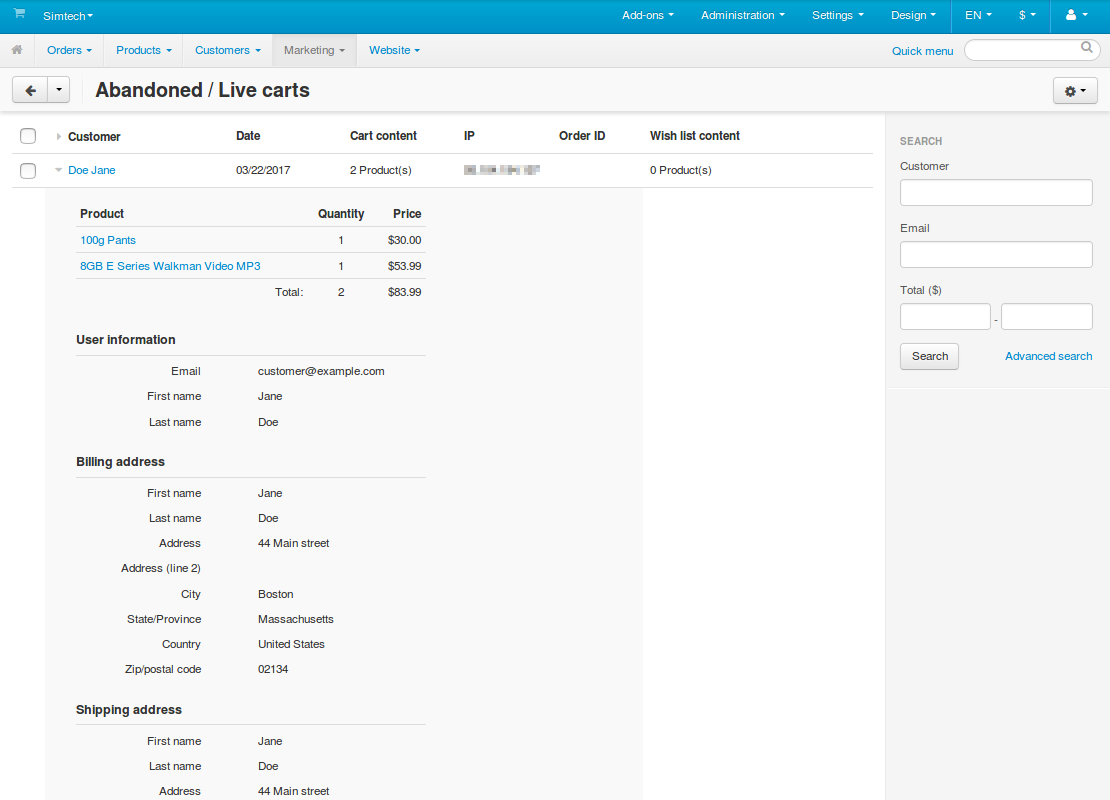
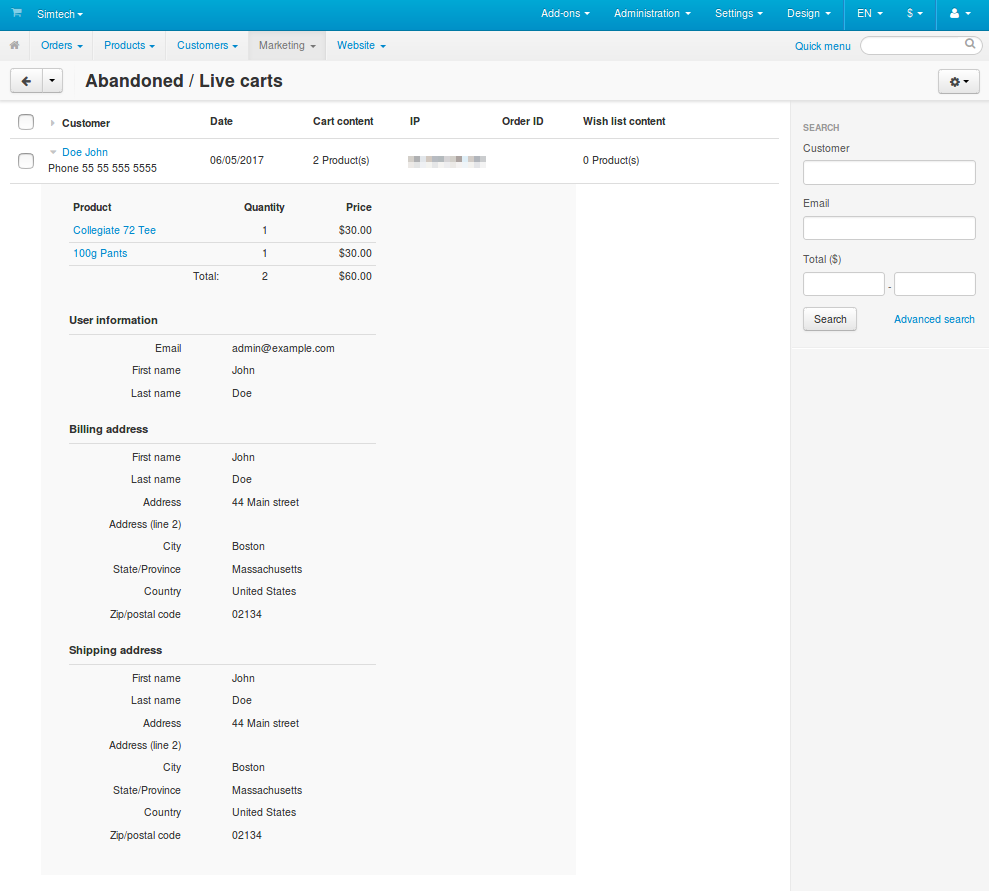
EN: User Guide: Marketing: Abandoned carts: Info and screenshots updated.

diff --git a/en/user_guide/marketing/abandoned_live_carts.rst b/en/user_guide/marketing/abandoned_live_carts.rst
@@ -20,15 +20,11 @@ The **Marketing → Abandoned / Live carts** section contains the lists of produ
 Unregistered Customers
 ======================
 
-Even if a customer isn't registered, the data of a cart is saved. In that case the customer is listed as **Unregistered customer**.
-
-.. important::
-
-    Starting with CS-Cart 4.5.1, the name and email of an unregistered customer will be saved as well, if that customer enters them at checkout and proceeds to the next step.
+Even if a customer isn't registered, the data of a cart is saved. In that case the customer is listed as **Unregistered customer**. If an unregistered customer enters the name, email, and phone number at checkout and proceeds to the next step, that data will be saved and displayed on the **Abandoned / Live carts** page as well.
 
 .. image:: img/guest_info.png
     :align: center
-    :alt: The names and emails of unregistered customers as they appear on the list of abandoned carts.
+    :alt: The names, emails, and phone numbers of unregistered customers as they appear on the list of abandoned carts.
 
 ======================
 Delete Abandoned Carts
